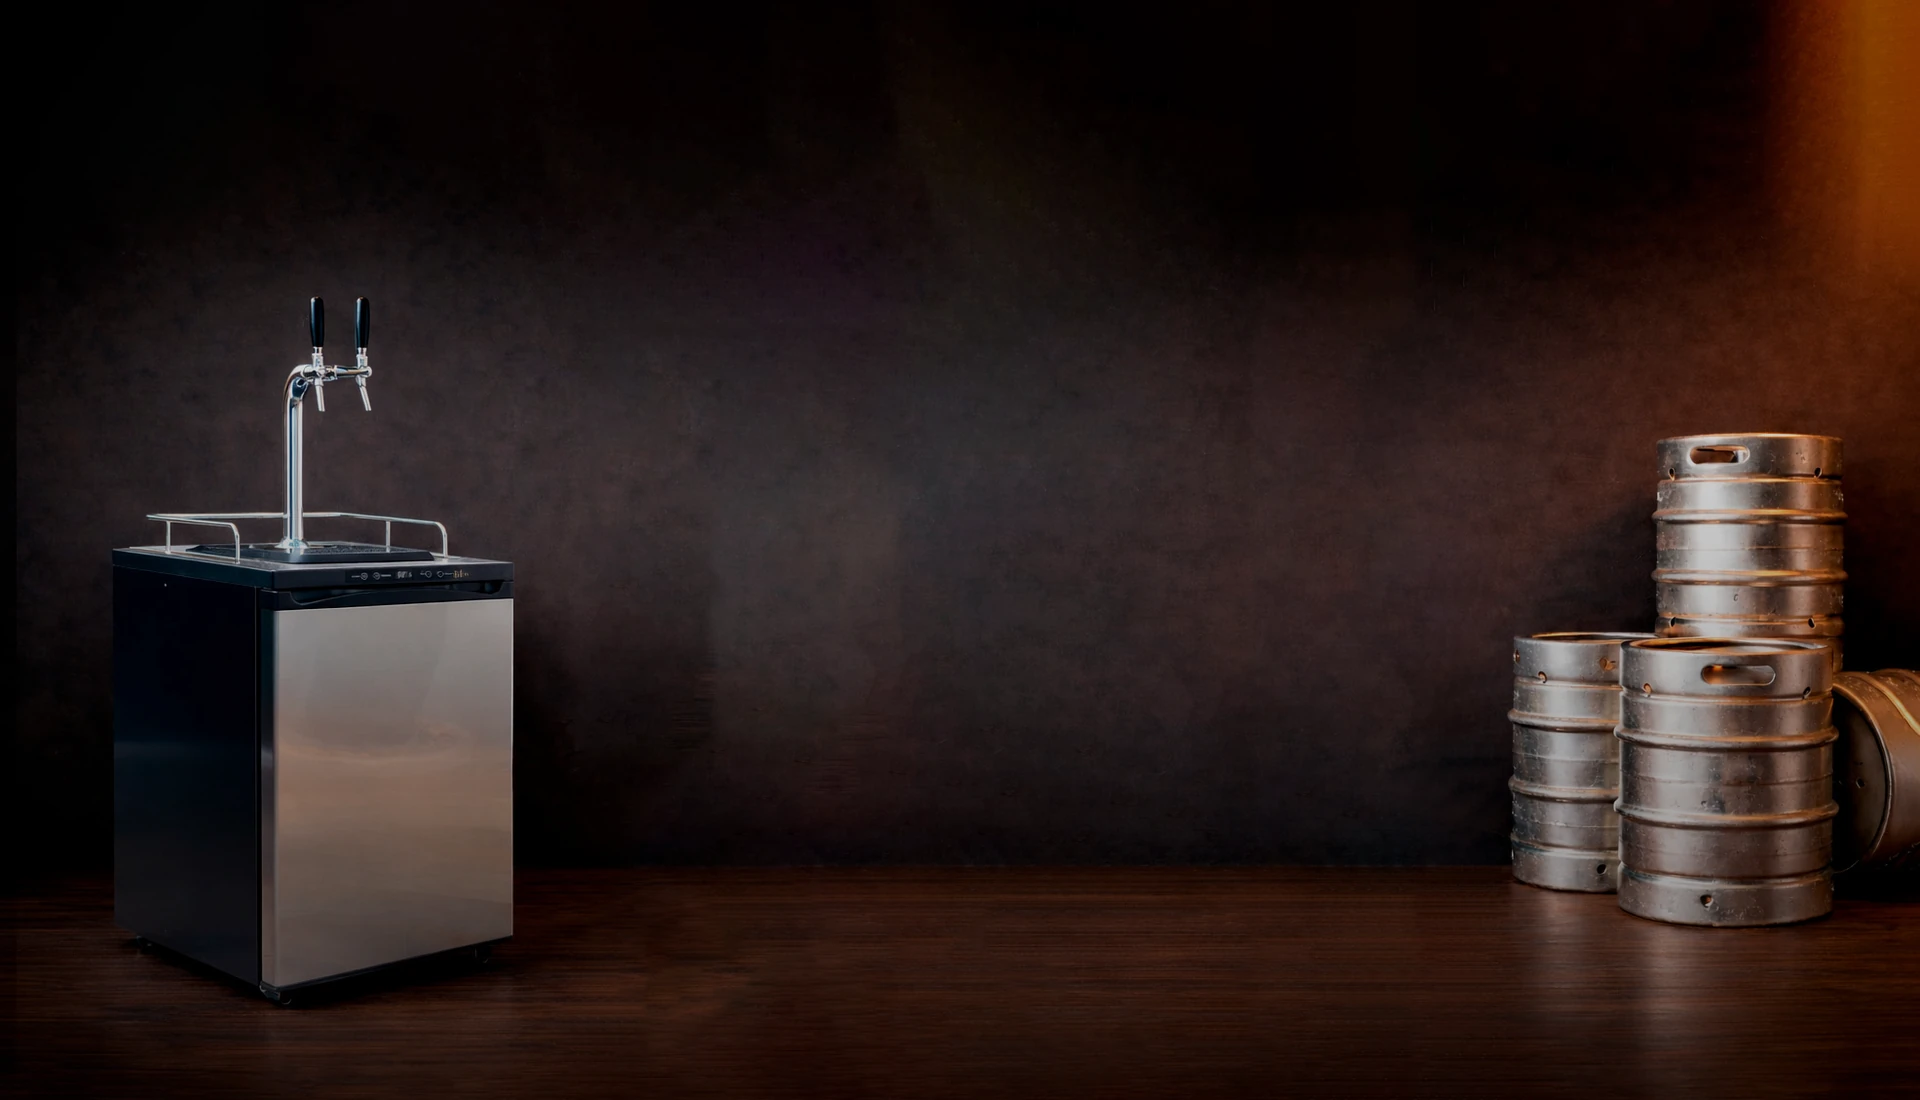
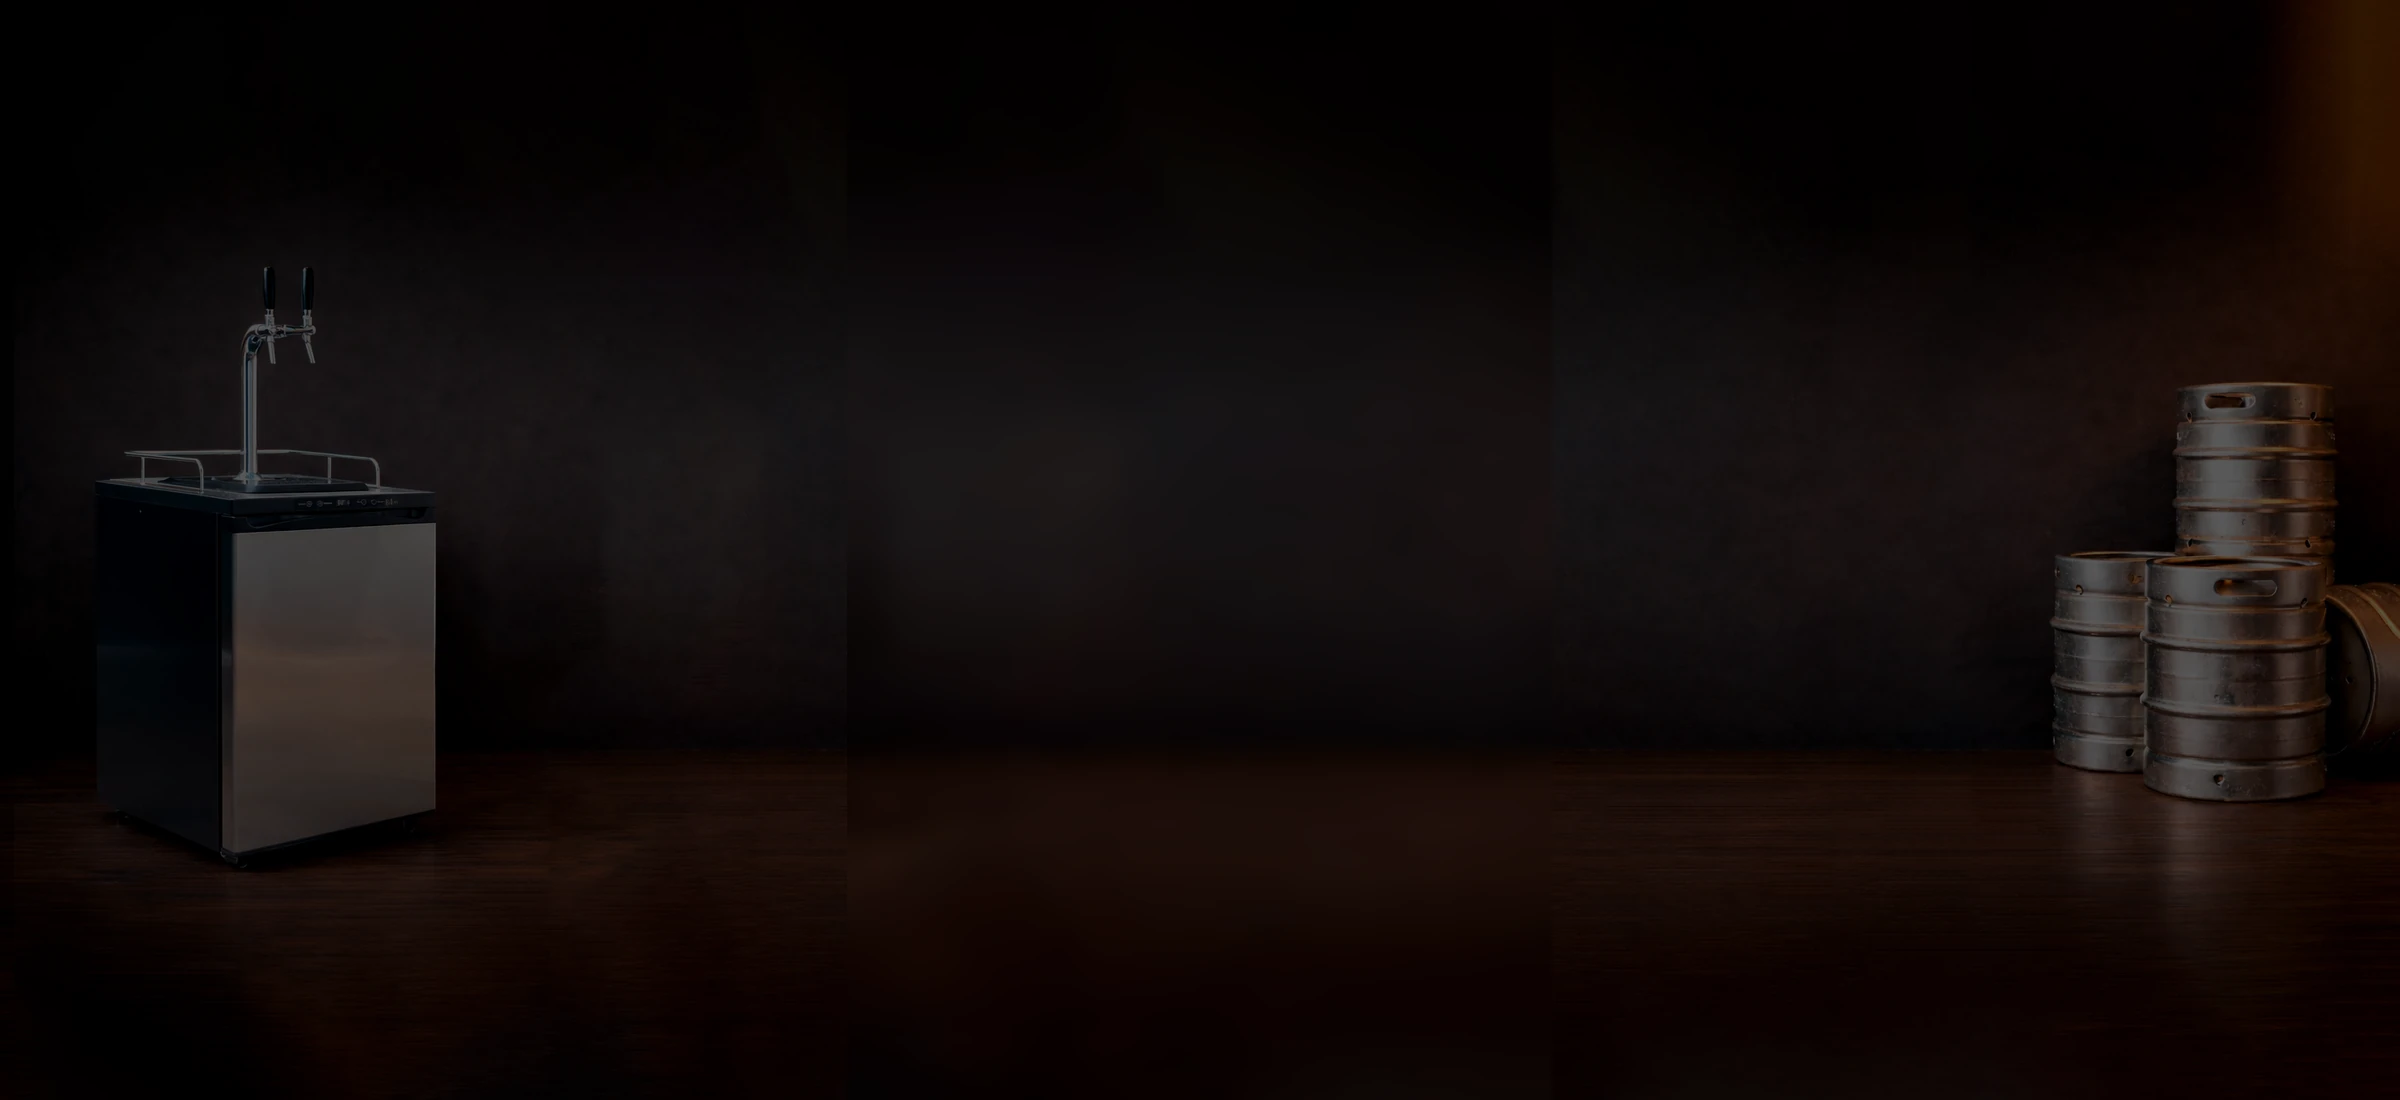
Add files via upload

diff --git a/src/components/Identification.jsx b/src/components/Identification.jsx
@@ -24,15 +24,14 @@ const Identification = () => {
       id="identification"
       className="relative pt-32 pb-20 md:pt-40 md:pb-28 flex items-center justify-center overflow-hidden bg-black"
     >
-      {/* Single Banner (no “double banner” effect). Using contain so taps/barrels are never cropped. */}
+      {/* Single banner, full width */}
       <div className="absolute inset-0 bg-black">
         <img
           src="/banner.jpg"
           alt="Bierz Banner"
-          className="w-full h-full object-contain object-center"
+          className="w-full h-full object-cover object-center"
         />
-        {/* Vignette/contrast overlay */}
-        <div className="absolute inset-0 bg-gradient-to-b from-black/55 via-black/45 to-black/70" />
+        <div className="absolute inset-0 bg-gradient-to-b from-black/55 via-black/45 to-black/75" />
       </div>
 
       <div className="relative z-10 w-full max-w-6xl px-6 text-center">
@@ -41,46 +40,45 @@ const Identification = () => {
         >
           {/* Refined Title */}
           <h1 className="font-extrabold leading-[0.95] tracking-tight">
-            <span className="block text-5xl sm:text-6xl md:text-7xl lg:text-[5.5rem] bg-gradient-to-r from-yellow-300 via-amber-500 to-orange-600 bg-clip-text text-transparent drop-shadow-[0_10px_28px_rgba(0,0,0,0.55)]">
+            <span className="block text-5xl sm:text-6xl md:text-7xl lg:text-[5.6rem] bg-gradient-to-r from-yellow-300 via-amber-500 to-orange-600 bg-clip-text text-transparent drop-shadow-[0_10px_28px_rgba(0,0,0,0.55)]">
               Bierz
             </span>
-            <span className="block mt-2 text-4xl sm:text-5xl md:text-6xl lg:text-[4.5rem] text-white drop-shadow-[0_10px_28px_rgba(0,0,0,0.55)]">
+            <span className="block mt-2 text-4xl sm:text-5xl md:text-6xl lg:text-[4.6rem] text-white drop-shadow-[0_10px_28px_rgba(0,0,0,0.55)]">
               Distribuidora
             </span>
           </h1>
 
-          {/* Tags */}
+          {/* Tags (restore premium hover/glow) */}
           <div className="mt-6 flex flex-wrap items-center justify-center gap-3">
-            <div className="inline-flex items-center gap-2 rounded-lg border border-amber-500/30 bg-black/35 px-4 py-2 text-sm md:text-base text-white/90 backdrop-blur">
-              <Wine className="h-4 w-4 text-amber-400" />
+            <div className="group inline-flex items-center gap-2 rounded-lg border border-amber-500/35 bg-black/30 px-4 py-2 text-sm md:text-base text-white/90 backdrop-blur transition duration-200 hover:bg-black/40 hover:border-amber-400/60 hover:shadow-[0_10px_30px_rgba(245,158,11,0.18)]">
+              <Wine className="h-4 w-4 text-amber-400 transition duration-200 group-hover:scale-110" />
               <span>
-                Chopp <span className="text-amber-400 font-semibold">Premium</span>
+                Chopp <span className="text-amber-300 font-semibold">Premium</span>
               </span>
             </div>
-            <div className="inline-flex items-center gap-2 rounded-lg border border-amber-500/30 bg-black/35 px-4 py-2 text-sm md:text-base text-white/90 backdrop-blur">
-              <Sparkles className="h-4 w-4 text-amber-400" />
+            <div className="group inline-flex items-center gap-2 rounded-lg border border-amber-500/35 bg-black/30 px-4 py-2 text-sm md:text-base text-white/90 backdrop-blur transition duration-200 hover:bg-black/40 hover:border-amber-400/60 hover:shadow-[0_10px_30px_rgba(245,158,11,0.18)]">
+              <Sparkles className="h-4 w-4 text-amber-400 transition duration-200 group-hover:scale-110" />
               <span>
-                Cervejas <span className="text-amber-400 font-semibold">Especiais</span>
+                Cervejas <span className="text-amber-300 font-semibold">Especiais</span>
               </span>
             </div>
           </div>
 
-          {/* Subtitle */}
           <p className="mt-6 text-white/85 max-w-3xl mx-auto text-base md:text-lg leading-relaxed">
             As melhores marcas de chopp e cerveja para seu evento. Qualidade, variedade e atendimento diferenciado em Sorocaba e região.
           </p>
 
-          {/* CTA Buttons (same subtle hover for both) */}
+          {/* CTA Buttons: same subtle hover, no "balanço" */}
           <div className="mt-10 flex flex-wrap items-center justify-center gap-4">
             <button
               onClick={() => scrollToSection('how-it-works')}
-              className="min-w-[180px] rounded-lg bg-gradient-to-r from-yellow-400 via-amber-500 to-orange-600 px-7 py-3 font-semibold text-black shadow-md shadow-black/20 transition-transform duration-200 hover:-translate-y-[1px] hover:shadow-lg hover:shadow-black/25 active:translate-y-0"
+              className="min-w-[180px] rounded-lg bg-gradient-to-r from-yellow-400 via-amber-500 to-orange-600 px-7 py-3 font-semibold text-black shadow-md shadow-black/20 transition duration-200 hover:brightness-[1.03] hover:shadow-lg hover:shadow-black/25 active:brightness-100"
             >
               Como funciona
             </button>
             <button
               onClick={() => scrollToSection('products')}
-              className="min-w-[180px] rounded-lg bg-gradient-to-r from-yellow-400 via-amber-500 to-orange-600 px-7 py-3 font-semibold text-black shadow-md shadow-black/20 transition-transform duration-200 hover:-translate-y-[1px] hover:shadow-lg hover:shadow-black/25 active:translate-y-0"
+              className="min-w-[180px] rounded-lg bg-gradient-to-r from-yellow-400 via-amber-500 to-orange-600 px-7 py-3 font-semibold text-black shadow-md shadow-black/20 transition duration-200 hover:brightness-[1.03] hover:shadow-lg hover:shadow-black/25 active:brightness-100"
             >
               Ver Produtos
             </button>
